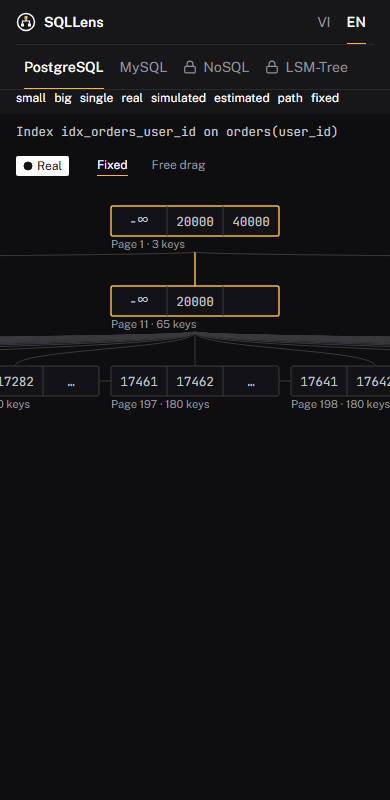
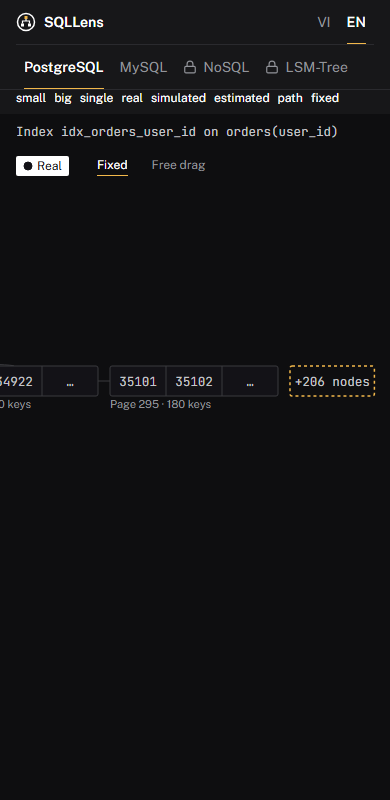
fix(Task040): sửa theo review, thêm bàn giao

Changed region(s): [[0.0, 0.25, 1.0, 0.5312], [0.2769, 0.4688, 0.5538, 0.5312], [0.0, 0.4688, 0.0923, 0.5312]]

diff --git a/web/src/modules/btree-reader/view/layout.ts b/web/src/modules/btree-reader/view/layout.ts
@@ -48,13 +48,13 @@ export function layoutTree(m: BTreeModel, pathPages: number[] = []): Layout {
   for (const n of m.nodes) {
     const from = pid(n.page);
     const lowerHidden = hid(clamp(n.level) - 1);
-    let addedHidden = false;
+    let hiddenEdge: Edge | undefined;
     for (const c of n.children ?? []) {
       if (byId.has(pid(c))) edges.push({ from, to: pid(c), kind: "child", lit: onPath.has(n.page) && onPath.has(c) });
-      else if (byId.has(lowerHidden) && !addedHidden) {
-        addedHidden = true;
-        // trang con trên đường đi bị ẩn thì nhánh tới khối hidden được tô
-        edges.push({ from, to: lowerHidden, kind: "child", lit: onPath.has(n.page) && onPath.has(c) });
+      else if (byId.has(lowerHidden)) {
+        // mọi con ẩn dùng chung một cạnh tới khối hidden; tô nếu bất kỳ con ẩn nào nằm trên đường đi
+        if (!hiddenEdge) edges.push((hiddenEdge = { from, to: lowerHidden, kind: "child", lit: false }));
+        if (onPath.has(n.page) && onPath.has(c)) hiddenEdge.lit = true;
       }
     }
     if (n.next !== undefined && byId.has(pid(n.next))) edges.push({ from, to: pid(n.next), kind: "next", lit: false });

diff --git a/web/src/modules/btree-reader/view/btree-view.tsx b/web/src/modules/btree-reader/view/btree-view.tsx
@@ -267,14 +267,14 @@ export function BTreeView({
     [commit],
   );
 
-  // Khi đổi cây hoặc đường đi, cuộn tới trang sâu nhất trên đường đi (hoặc root) để thấy ngay.
-  const focusPage = [...pathPages].reverse().find((p) => byPage.has(p)) ?? model.rootPage;
+  // Trang sâu nhất trên đường đi; nếu nó bị ẩn thì nhìn vào khối hidden của tầng đó.
+  const lastOnPath = pathPages.length ? pathPages[pathPages.length - 1] : model.rootPage;
+  const focusId = byPage.has(lastOnPath) ? `p${lastOnPath}` : `h${Math.max(0, model.height - pathPages.length)}`;
   useEffect(() => {
     const sc = scroller.current;
-    const it = layout.items.find((i) => i.page === focusPage);
+    const it = layout.items.find((i) => i.id === focusId) ?? layout.items.find((i) => i.page === model.rootPage);
     if (sc && it) sc.scrollLeft = Math.max(0, it.x + it.w / 2 - sc.clientWidth / 2);
-    // chỉ chạy khi cây hoặc đường đi đổi, không chạy khi kéo node
-  }, [layout, focusPage]);
+  }, [layout, focusId, model.rootPage]);
 
   const pick = (m: Mode) => {
     store.set(MODE_KEY, m);

diff --git a/web/src/modules/btree-reader/view/layout.test.ts b/web/src/modules/btree-reader/view/layout.test.ts
@@ -18,6 +18,13 @@ describe("layoutTree", () => {
     expect(h.count).toBe(206);
     expect(l.items.filter((i) => i.y === h.y && i.id !== h.id).every((i) => i.level === 0)).toBe(true);
   });
+  it("tô cạnh tới khối hidden khi chỉ con ẩn thứ 2 nằm trên đường đi", () => {
+    const m = { ...smallFixture(), height: 2, rootPage: 2, totalPages: 4, hidden: [{ level: 0, count: 3 }],
+      nodes: [{ page: 2, level: 1, keys: ["", "1", "2"], children: [10, 11, 12], totalKeys: 3 }] };
+    const e = layoutTree(m, [2, 11]).edges;
+    expect(e).toHaveLength(1);
+    expect(e[0].lit).toBe(true);
+  });
   it("cây một node", () => {
     const l = layoutTree({ ...smallFixture(), height: 1, nodes: [{ page: 1, level: 0, keys: ["1"], totalKeys: 1 }], hidden: [] });
     expect(l.items).toHaveLength(1);

diff --git a/web/e2e/btree-view.spec.ts b/web/e2e/btree-view.spec.ts
@@ -63,6 +63,11 @@ test.describe("máy tính 1440", () => {
     expect(Math.max(0, ...long)).toBeLessThan(200);
     // path trỏ trang 500 bị ẩn: khối hidden được tô, không sập
     await expect(page.locator("g[data-hidden-level='0']")).toHaveAttribute("data-lit", "true");
+    // khối hidden được tô phải nằm trong khung nhìn
+    const hb = (await page.locator("g[data-hidden-level='0']").boundingBox())!;
+    const sb = (await page.getByTestId("btree-scroll").boundingBox())!;
+    expect(hb.x).toBeGreaterThanOrEqual(sb.x);
+    expect(hb.x + hb.width).toBeLessThanOrEqual(sb.x + sb.width + 1);
     await page.screenshot({ path: `${SHOTS}/vi-1440-500k.png` });
   });
 

diff --git a/_bmad-output/SP008/STR035/Task040/ban_giao_task040.md b/_bmad-output/SP008/STR035/Task040/ban_giao_task040.md
@@ -1,0 +1,10 @@
+# Bàn giao Task040
+
+Đã làm: component `BTreeView` tự vẽ cây B-Tree bằng SVG (không viewBox, chữ 12,5 px), nền tối. Tầng root, internal, leaf, cạnh nối con, cạnh `next` giữa các leaf, đường đi tô màu đèn, khối `+N node` theo `hidden`, nhãn kết luận đúng nhãn truyền vào, bản tóm tắt cho trình đọc màn hình. Hai kiểu "Cố định" (mặc định) và "Kéo tự do" (chuột, cảm ứng, phím mũi tên, kéo nền để cuộn, nút "Xếp lại"); thả xong node được đẩy ra để cách nhau tối thiểu 8 px (thực tế 10 px vì viền 1,5 px). Chạy đúng khi không có `path`, khi `path` trỏ trang bị ẩn, cây một node, localStorage bị chặn.
+File chính: `web/src/modules/btree-reader/view/btree-view.tsx` (xuất `BTreeView`, `nodePosition`, `readStoredMode`), `layout.ts` (bố cục, `settle`), `fixtures.ts`, `layout.test.ts`; `web/messages/{vi,en}/btree.json`; route thử `web/src/app/[locale]/e2e-btree/`; `web/e2e/btree-view.spec.ts`; ảnh 390 px và 1440 px, vi và en, trong thư mục task.
+Kết quả kiểm tra (máy đang bận, cổng 3140, --workers=1): `npm run check` thoát 0 (196 test trước khi thêm; sau thêm ca layout vẫn thoát 0); `API_ORIGIN=http://localhost:8080 npm run build` thoát 0; `npx playwright test e2e/btree-view.spec.ts --workers=1` 15/15 đạt; toàn bộ `npx playwright test --workers=1` ở lần chạy trước khi sửa theo review: 84 đạt. Chạy lại toàn bộ trên commit cuối ghi ở báo cáo.
+AC2 đo: cây 200 node đã đọc, bấm đổi cây đến khi vẽ xong (2 khung hình), trung vị 5 lần: 45 đến 99 ms tùy lúc máy bận (mỗi lần chạy 5 mẫu đều dưới 106 ms; đo trên bản build, đã gồm khoảng 33 ms của 2 khung); longtask lớn nhất 95 ms, không khung nào chờ quá 200 ms. Số này nằm sát giới hạn 100 ms khi máy bận.
+Kết quả review: 5 mục, đã sửa 2 (cạnh tới khối hidden không tô khi chỉ con ẩn thứ 2 trở đi nằm trên đường đi; ảnh 500k không thấy khối `+206 node` vì cuộn sai, nay cuộn tới khối hidden và test kiểm khối nằm trong khung nhìn). needs_validation còn lại: (4) độ lệch lưu ở `sqllens.btree.pg` dùng id `p{page}`, mở cây khác cùng engine có thể chồng node vì không qua `settle` lúc nạp; (5) `nodePosition` dùng biến module, hai `BTreeView` cùng lúc sẽ ghi đè nhau. Không sửa: (3) nhãn tầng không dính khi cuộn ngang, chỉ ảnh hưởng khả năng đọc.
+Chưa làm được: kiểm trên trình đọc màn hình thật, Firefox, Safari, thiết bị cảm ứng thật (chỉ dùng CDP); cây trên 1000 node.
+Phát sinh: (a) nhãn tầng Root/Internal/Leaf nên dính khi cuộn ngang; (b) khóa lưu độ lệch nên gắn với index để không chồng khi đổi cây (hợp đồng chỉ nêu `sqllens.btree.pg`); (c) route `e2e-btree` phải chặn ở SP013; (d) Chrome hủy cử chỉ chạm trên svg dù đã đặt `touch-action: none` khi vùng chưa đủ nội dung cuộn, đã giải quyết bằng kéo bằng con trỏ có capture, nếu đổi cấu trúc DOM phải chạy lại test cảm ứng.
+Việc tiếp theo cần biết: Task041 lấy vị trí tâm node bằng `nodePosition(page)` (tọa độ SVG, sau khi cây vẽ xong) hoặc `[data-page]`; khối hidden có `data-hidden-level`. Task gắn màn hình cần hiện lý do khi `readBTree` không trả `path` (hiện chỉ vẽ cây, không tô).
